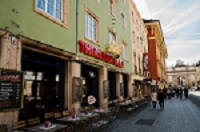
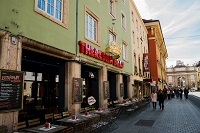
bilder besser gemacht

diff --git a/biergartendata.js b/biergartendata.js
@@ -15,7 +15,7 @@ let biergartendata = [
       "lat":"47.2514265","lng":"11.4012491","name":"Bierstindl","adresse":"Klostergasse 6","link":"https://www.bierstindl.eu","bild":"images/bierstindl.jpg","bildquelle":"https://www.bing.com/th?id=OIP.IlzqoFW7vucsffzQZ3eFHQHaE8&pid=Api" 
     },
     {
-      "lat":"47.279924","lng":"11.4041895","name":"Restaurant Panorama","adresse":"Rennweg 39","link":"http://restaurant-panorama.info","bild":"images/panorama.jpg","bildquelle":"http://www.gastrotour.cc/index.php?it=oesterreich/tirol/innsbruck-stadt/innsbruck/gastgarten-und-biergarten-restaurant-panorama/" 
+      "lat":"47.279924","lng":"11.4041895","name":"Restaurant Panorama","adresse":"Rennweg 39","link":"http://restaurant-panorama.info","bild":"images/panorama.jpg","bildquelle":"https://all-inn.at/essen-und-trinken-gehen-in-innsbruck/biergarten-beergarden/restaurant-panorama/" 
     },
     {
       "lat":"47.2685811","lng":"11.3936288","name":"","adresse":"Stiftskeller","link":"https://www.stiftskeller.eu/","bild":"images/stiftskeller.jpg","bildquelle":"https://www.innsbruck.info/emobilder/x/15131/Biergarten.jpg" 
